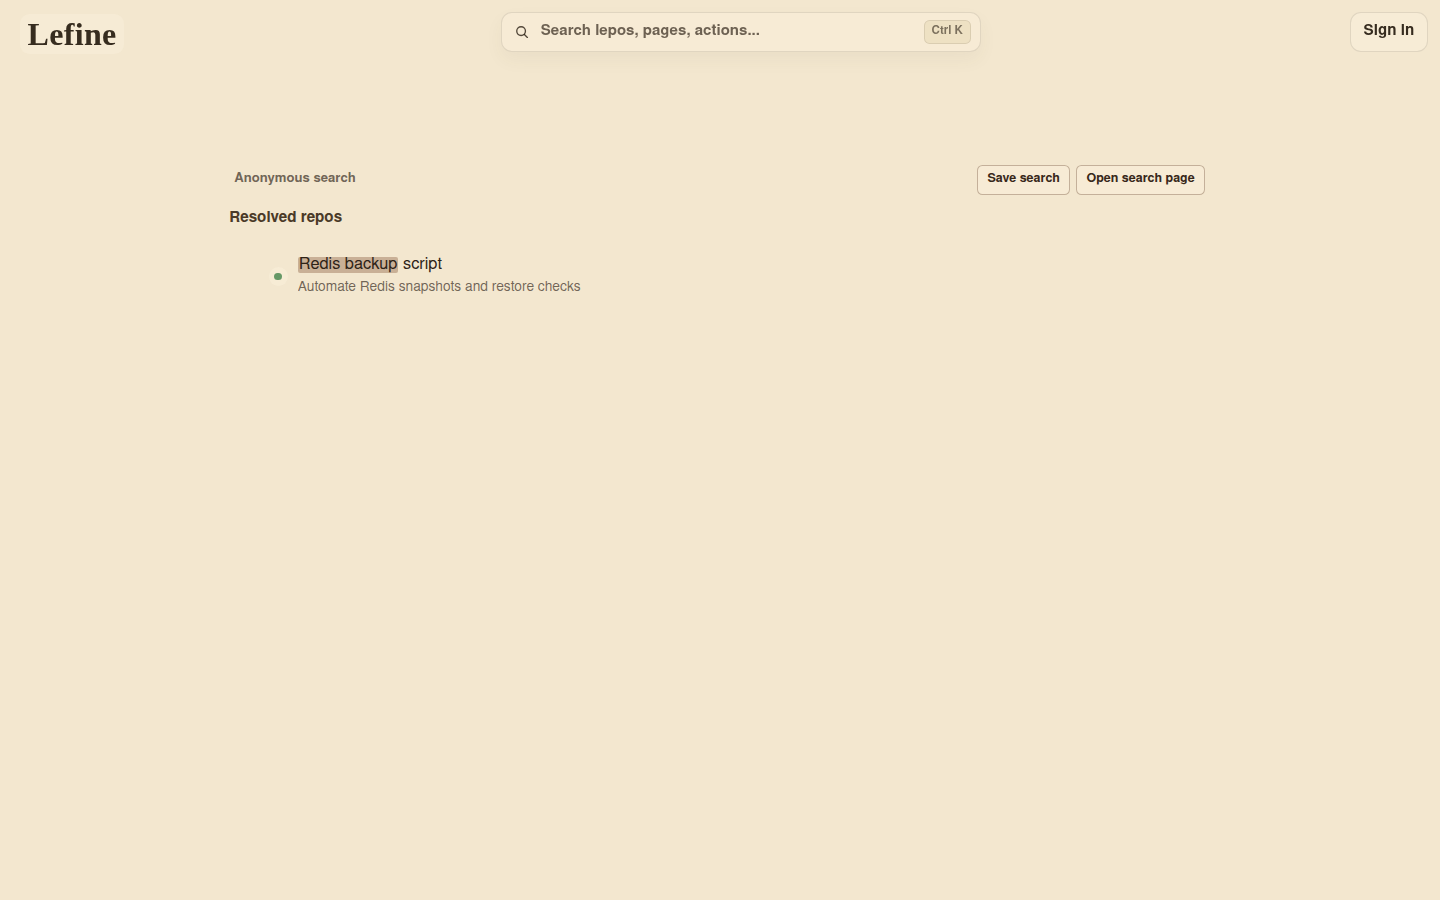
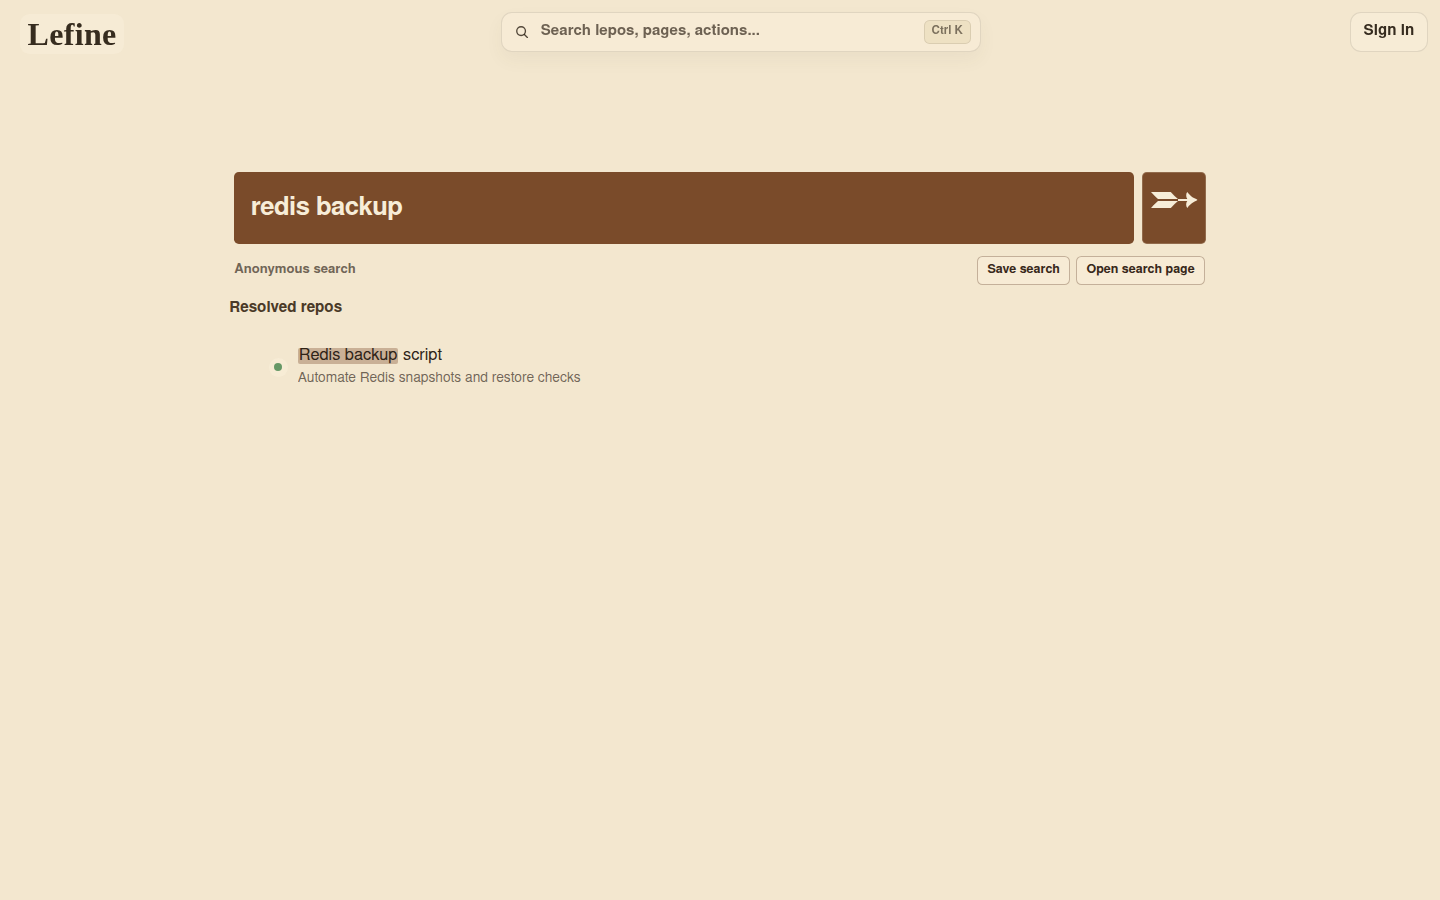
Use centered home search for root queries

Changed region(s): [[0.1562, 0.1867, 0.8438, 0.3422], [0.1875, 0.3733, 0.4062, 0.4356]]

diff --git a/src/lib/components/kefine/KefineCreateStep.svelte b/src/lib/components/kefine/KefineCreateStep.svelte
@@ -23,7 +23,7 @@
   import { buildActorOrderPath } from '$lib/components/kefine/kefine-workspace-helpers';
   import { defaultMetrics } from '$lib/kefine/solutions-data';
   import { cubicOut } from 'svelte/easing';
-  import { onMount } from 'svelte';
+  import { onMount, tick } from 'svelte';
   const PLACEHOLDER_TYPE_DELAY_MS = 58;
   const PLACEHOLDER_DELETE_DELAY_MS = 34;
   const PLACEHOLDER_PAUSE_MS = 1150;
@@ -103,6 +103,7 @@
     openTaskLabel,
     relatedItemsLabel,
     searchResultsOnly = false,
+    searchFocusRequest = 0,
     searchResultsEmptyLabel = 'No matching results',
     searchMode = null,
     searchModeAnonymousLabel = 'Anonymous search',
@@ -198,6 +199,7 @@
     openTaskLabel: string;
     relatedItemsLabel: string;
     searchResultsOnly?: boolean;
+    searchFocusRequest?: number;
     searchResultsEmptyLabel?: string;
     searchMode?: SearchPageMode | null;
     searchModeAnonymousLabel?: string;
@@ -226,6 +228,10 @@
     onExecutionEstimateChange?: (value: string) => void;
     onOpenSolution?: (solutionId: string) => void;
   } = $props();
+
+  const showSearchComposer = $derived(!searchResultsOnly);
+  const showHomeContent = $derived(!searchMode && !searchResultsOnly);
+  const showTaskHistory = $derived(!searchMode && !searchResultsOnly);
 
   // Show the proxy configuration widget as soon as the draft reads like a proxy
   // request — no submit required (e.g. typing "Нужен прокси сервер").
@@ -452,6 +458,22 @@
   let taskCompleted = $state(false);
   let isFlying = $state(false);
   let initialized = $state(false);
+
+  $effect(() => {
+    const request = searchFocusRequest;
+    if (!browser || !request || !showSearchComposer) {
+      return;
+    }
+
+    void tick().then(() => {
+      inputMetaOpen = true;
+      searchRevealed = true;
+      placeholderFocused = true;
+      stopPlaceholderAnimation({ hide: true });
+      taskTextarea?.focus();
+      taskTextarea?.setSelectionRange(draft.description.length, draft.description.length);
+    });
+  });
 
   function orderScore(query: string, order: OrderView): number {
     const q = query.trim().toLowerCase();
@@ -1426,7 +1448,7 @@ initialized = true;
 
 </script>
 
-{#if afeIntroCard && !searchResultsOnly}
+{#if afeIntroCard && showHomeContent}
   <h1 class="lefine-title">Lefine</h1>
   <p class="lefine-subtitle">{afeIntroCard.detail}</p>
 {/if}
@@ -1469,7 +1491,7 @@ initialized = true;
 
 
 
-  {#if !searchResultsOnly}
+  {#if showSearchComposer}
   <fieldset data-part="exec-row" data-testid="kefine-create-form">
     <kefine-task-shell>
       <label data-part="sr-only" for="order-title">{title}</label>
@@ -1716,7 +1738,7 @@ initialized = true;
     </kefine-qr-card>
   {/if}
 
-  {#if !searchResultsOnly}
+  {#if showSearchComposer}
     {#if inputMetaOpen}
       <kefine-input-meta data-part="input-meta">
         <kefine-composer-strip aria-label={composerHints}>
@@ -1824,7 +1846,7 @@ initialized = true;
   <!-- Extracted-music preview — appears when the draft reads like "extract audio from video" -->
   <KefineMusicWidget active={musicIntentActive} />
 
-  {#if !searchResultsOnly}
+  {#if showTaskHistory}
     <!-- Persistent task history on main page (same data as in profile) -->
     {#if (solverSearchActive && solverSearchText?.trim()) || (searchRevealed && recentOrders.length > 0)}
       <section data-part="tasks-list" data-entrance={!listEntranceDone}>
@@ -1977,11 +1999,11 @@ initialized = true;
     {/if}
   {/if}
 
-  {#if isSearching && (sortedMatchedOrders.length > 0 || searchResultsOnly)}
+  {#if isSearching && (sortedMatchedOrders.length > 0 || searchMode)}
     <section
       data-part="recent"
-      data-testid={searchResultsOnly ? 'kefine-search-page-results' : null}
-      data-mode={searchResultsOnly ? searchMode : null}
+      data-testid={searchMode ? 'kefine-search-page-results' : null}
+      data-mode={searchMode}
       aria-label={isSearching ? matchedTasksLabel : solverLabel}
     >
       <kefine-recent-title>{matchedTasksLabel}</kefine-recent-title>
@@ -2019,7 +2041,7 @@ initialized = true;
   {/if}
 </article>
 
-{#if !searchResultsOnly && pinnedServices.length > 0}
+{#if showHomeContent && pinnedServices.length > 0}
   <lef-services-showcase>
     <lef-services-head>
       <strong>{pinnedServicesTitle}</strong>
@@ -2048,7 +2070,7 @@ initialized = true;
   </lef-services-showcase>
 {/if}
 
-{#if !searchResultsOnly}
+{#if showHomeContent}
   {#if afeIntroCard}
     <lef-afe-showcase-heading>{afeIntroCard.title}</lef-afe-showcase-heading>
   {/if}

diff --git a/src/lib/components/kefine/KefineWorkspace.svelte b/src/lib/components/kefine/KefineWorkspace.svelte
@@ -354,6 +354,7 @@
   let EmailCodeDialogComponent = $state<LazyComponent | null>(null);
   let appliedSearchPageDraftQuery = $state('');
   let hasAppliedSearchPageDraftQuery = $state(false);
+  let searchInputFocusRequest = $state(0);
 
   const passkeySession = $derived($passkeySessionStore);
   const isPasskeyActive = $derived(passkeySession ? passkeySession.expiresAt.getTime() > Date.now() : false);
@@ -596,6 +597,10 @@
   const searchPageAlternateHref = $derived(
     searchPageMode ? buildSearchPageHref(searchPageMode === 'saved' ? 'anonymous' : 'saved') : ''
   );
+  const searchResultsOnly = $derived(searchPageMode === 'saved');
+  const inlineHomeSearchActive = $derived(
+    step === 'create' && !getNormalizedInitialActorHandle() && !getNormalizedInitialOrderId() && !initialWidget
+  );
   const searchPageMatchedOrders = $derived.by(() => {
     if (!searchPageMode) {
       return [];
@@ -658,6 +663,15 @@
     draft.description = query;
     appliedSearchPageDraftQuery = query.trim();
     hasAppliedSearchPageDraftQuery = true;
+  }
+
+  async function focusHomeSearchInput() {
+    if (step !== 'create') {
+      step = 'create';
+      await tick();
+    }
+
+    searchInputFocusRequest += 1;
   }
 
   function orderMatchesQuery(order: OrderView, query: string): boolean {
@@ -3005,12 +3019,13 @@
     }
   }}
   onThemeChange={(theme) => { themeMode = theme; }}
-  onSearchQueryChange={searchPageMode ? updateSearchPageQuery : undefined}
+  onSearchQueryChange={searchResultsOnly ? updateSearchPageQuery : undefined}
   onAuth={selectTopbarAuth}
   onOpenProfile={openTopbarProfile}
   onSignOut={() => { void signOutProfileSession(); }}
-   onAuthDoubleClick={() => { void openTopbarProfileSetup(); }}
-   onLocale={selectTopbarLocale}
+  onAuthDoubleClick={() => { void openTopbarProfileSetup(); }}
+  onSearchTrigger={inlineHomeSearchActive ? focusHomeSearchInput : undefined}
+  onLocale={selectTopbarLocale}
 />
 
 <main data-sidebar-expanded={leftNavExpanded}>
@@ -3077,7 +3092,8 @@
           composerHints={localeText.create.composerHints}
           openTaskLabel={localeText.labels.openOrderLink}
           relatedItemsLabel={localeText.labels.relatedItems}
-          searchResultsOnly={Boolean(searchPageMode)}
+          searchResultsOnly={searchResultsOnly}
+          searchFocusRequest={searchInputFocusRequest}
           searchResultsEmptyLabel={localeText.topbar.searchEmptyLabel}
           searchMode={searchPageMode}
           searchModeAnonymousLabel={localeText.create.searchModeAnonymous}

diff --git a/src/lib/components/kefine/KefineTopbar.svelte b/src/lib/components/kefine/KefineTopbar.svelte
@@ -99,6 +99,7 @@
     onOpenProfile,
     onSignOut,
     onAuthDoubleClick,
+    onSearchTrigger,
     onLocale
   }: {
     brandLabel: string;
@@ -137,9 +138,9 @@
     searchHomeLabel?: string;
     searchHomeHref?: string;
     searchItems?: KefineTopbarSearchItem[];
-    /** Deep-link query (from `?q=`) that auto-opens the palette seeded with this text. */
+    /** Deep-link query that seeds the palette on non-search routes. */
     initialSearchQuery?: string;
-    /** Query to prefill when opening the palette manually on a search results page. */
+    /** Query to prefill when opening the palette manually on saved-search routes. */
     searchDefaultQuery?: string;
     /** Widget short link (e.g. `/@profile/weather`) that auto-opens this widget inline. */
     initialWidget?: KefineSearchWidgetId | null;
@@ -163,6 +164,7 @@
     onOpenProfile: () => void;
     onSignOut: () => void;
     onAuthDoubleClick: () => void;
+    onSearchTrigger?: () => void | Promise<void>;
     onLocale: (locale: KefineLocale) => void;
   } = $props();
 
@@ -308,8 +310,9 @@
     };
   });
 
-  // Deep links open the palette automatically: `?q=term` seeds the query and a
-  // widget short link (e.g. `/@profile/weather`) surfaces that widget inline.
+  // Deep links can open the palette automatically: non-search `?q=term` routes
+  // seed the query and widget short links (e.g. `/@profile/weather`) surface
+  // that widget inline.
   // We track the applied signature so the dialog opens once per distinct link
   // instead of re-opening on every reactive pass.
   let appliedDeepLink = $state<string | null>(null);
@@ -405,6 +408,11 @@
 
   async function openSearchDialog(options?: { query?: string; widget?: KefineSearchWidgetId | null }) {
     if (!showSearch) {
+      return;
+    }
+
+    if (onSearchTrigger && !options?.query && !options?.widget) {
+      await onSearchTrigger();
       return;
     }
 

diff --git a/e2e/search-page.spec.ts b/e2e/search-page.spec.ts
@@ -40,11 +40,12 @@ async function gotoSearchPage(page: Page, path: string) {
 }
 
 test.describe('Search page URLs', () => {
-  test('opens root query as anonymous results controlled by the topbar search', async ({ page }) => {
+  test('opens root query as anonymous results controlled by the centered search', async ({ page }) => {
     await mockOrderApi(page);
     await gotoSearchPage(page, '/?q=redis%20backup');
 
-    await expect(page.getByTestId('kefine-task-input')).toHaveCount(0);
+    await expect(page.getByTestId('kefine-task-input')).toBeVisible();
+    await expect(page.getByTestId('kefine-task-input')).toHaveValue('redis backup');
     await expect(page.getByTestId('kefine-search-page-results')).toHaveAttribute(
       'data-mode',
       'anonymous'
@@ -55,9 +56,10 @@ test.describe('Search page URLs', () => {
     await expect(page.getByTestId('kefine-topbar-search-dialog')).not.toBeVisible();
 
     await page.getByTestId('kefine-topbar-search-trigger').click();
-    await expect(page.getByTestId('kefine-topbar-search-input')).toHaveValue('redis backup');
+    await expect(page.getByTestId('kefine-topbar-search-dialog')).not.toBeVisible();
+    await expect(page.getByTestId('kefine-task-input')).toBeFocused();
 
-    await page.getByTestId('kefine-topbar-search-input').fill('postgres restore');
+    await page.getByTestId('kefine-task-input').fill('postgres restore');
     await expect(page).toHaveURL(/\/\?q=postgres\+restore$/);
     await expect(page.getByTestId('kefine-search-order-order-redis')).toHaveCount(0);
     await expect(page.getByTestId('kefine-search-results-empty')).toBeVisible();
@@ -85,12 +87,12 @@ test.describe('Search page URLs', () => {
     await mockOrderApi(page);
     await gotoSearchPage(page, '/?q=git%20hub');
 
-    await expect(page.getByTestId('kefine-task-input')).toHaveCount(0);
+    await expect(page.getByTestId('kefine-task-input')).toBeVisible();
     await expect(page.getByTestId('kefine-instant-description-github')).toBeVisible();
     await expect(page.getByTestId('kefine-search-results-empty')).toBeVisible();
 
     await gotoSearchPage(page, '/?q=translate%20from%20english%20to%20russian');
-    await expect(page.getByTestId('kefine-task-input')).toHaveCount(0);
+    await expect(page.getByTestId('kefine-task-input')).toBeVisible();
     await expect(page.getByTestId('kefine-translator-widget')).toBeVisible();
   });
 

diff --git a/e2e/topbar-search.spec.ts b/e2e/topbar-search.spec.ts
@@ -1,16 +1,14 @@
 import { expect, test } from '@playwright/test';
 
-import { gotoAndWaitForReady, mockOrderApi } from './helpers/kefine';
+import { createTask, gotoAndWaitForReady, mockOrderApi } from './helpers/kefine';
 
 test.describe('Topbar search', () => {
-  test('opens from the header and finds a queued lepo', async ({ page }) => {
+  test('opens from a repo page and finds a queued lepo', async ({ page }) => {
     await mockOrderApi(page);
     await gotoAndWaitForReady(page);
 
-    await page.getByTestId('kefine-task-input').fill('Need Redis backup script');
-    await page.getByTestId('kefine-task-input').press('Shift+Enter');
-
-    await expect(page.locator('[data-order-id="order-1"]')).toBeVisible();
+    await createTask(page, 'Need Redis backup script');
+    await expect(page).toHaveURL(/\/order-1$/);
 
     await page.getByTestId('kefine-topbar-search-trigger').click();
     await expect(page.getByTestId('kefine-topbar-search-dialog')).toBeVisible();
@@ -29,6 +27,8 @@ test.describe('Topbar search', () => {
   test('surfaces developed widgets inline from the command palette', async ({ page }) => {
     await mockOrderApi(page);
     await gotoAndWaitForReady(page);
+    await createTask(page, 'Open widget command palette');
+    await expect(page).toHaveURL(/\/order-1$/);
 
     await page.getByTestId('kefine-topbar-search-trigger').click();
     await expect(page.getByTestId('kefine-topbar-search-dialog')).toBeVisible();

diff --git a/e2e/topbar-deeplink.spec.ts b/e2e/topbar-deeplink.spec.ts
@@ -2,7 +2,7 @@ import { expect, test } from '@playwright/test';
 
 import { mockOrderApi } from './helpers/kefine';
 
-// Clears persisted state, then lands on a deep link so the palette auto-opens.
+// Clears persisted state, then lands on a deep link.
 async function gotoDeepLink(page: import('@playwright/test').Page, path: string) {
   await page.goto('/');
   await page.evaluate(() => {
@@ -17,7 +17,8 @@ test.describe('Search deep links', () => {
     await mockOrderApi(page);
     await gotoDeepLink(page, '/?q=redis');
 
-    await expect(page.getByTestId('kefine-task-input')).toHaveCount(0);
+    await expect(page.getByTestId('kefine-task-input')).toBeVisible();
+    await expect(page.getByTestId('kefine-task-input')).toHaveValue('redis');
     await expect(page.getByTestId('kefine-search-page-results')).toHaveAttribute(
       'data-mode',
       'anonymous'

diff --git a/src/routes/opensearch.xml/+server.ts b/src/routes/opensearch.xml/+server.ts
@@ -4,8 +4,7 @@ export const prerender = false;
 
 /**
  * OpenSearch descriptor so browsers can install the site as a search engine and
- * route queries through the `?q={searchTerms}` deep link that opens the command
- * palette (see KefineTopbar `initialSearchQuery`).
+ * route queries through the root `?q={searchTerms}` search page.
  */
 export const GET: RequestHandler = ({ url }) => {
   const origin = url.origin;